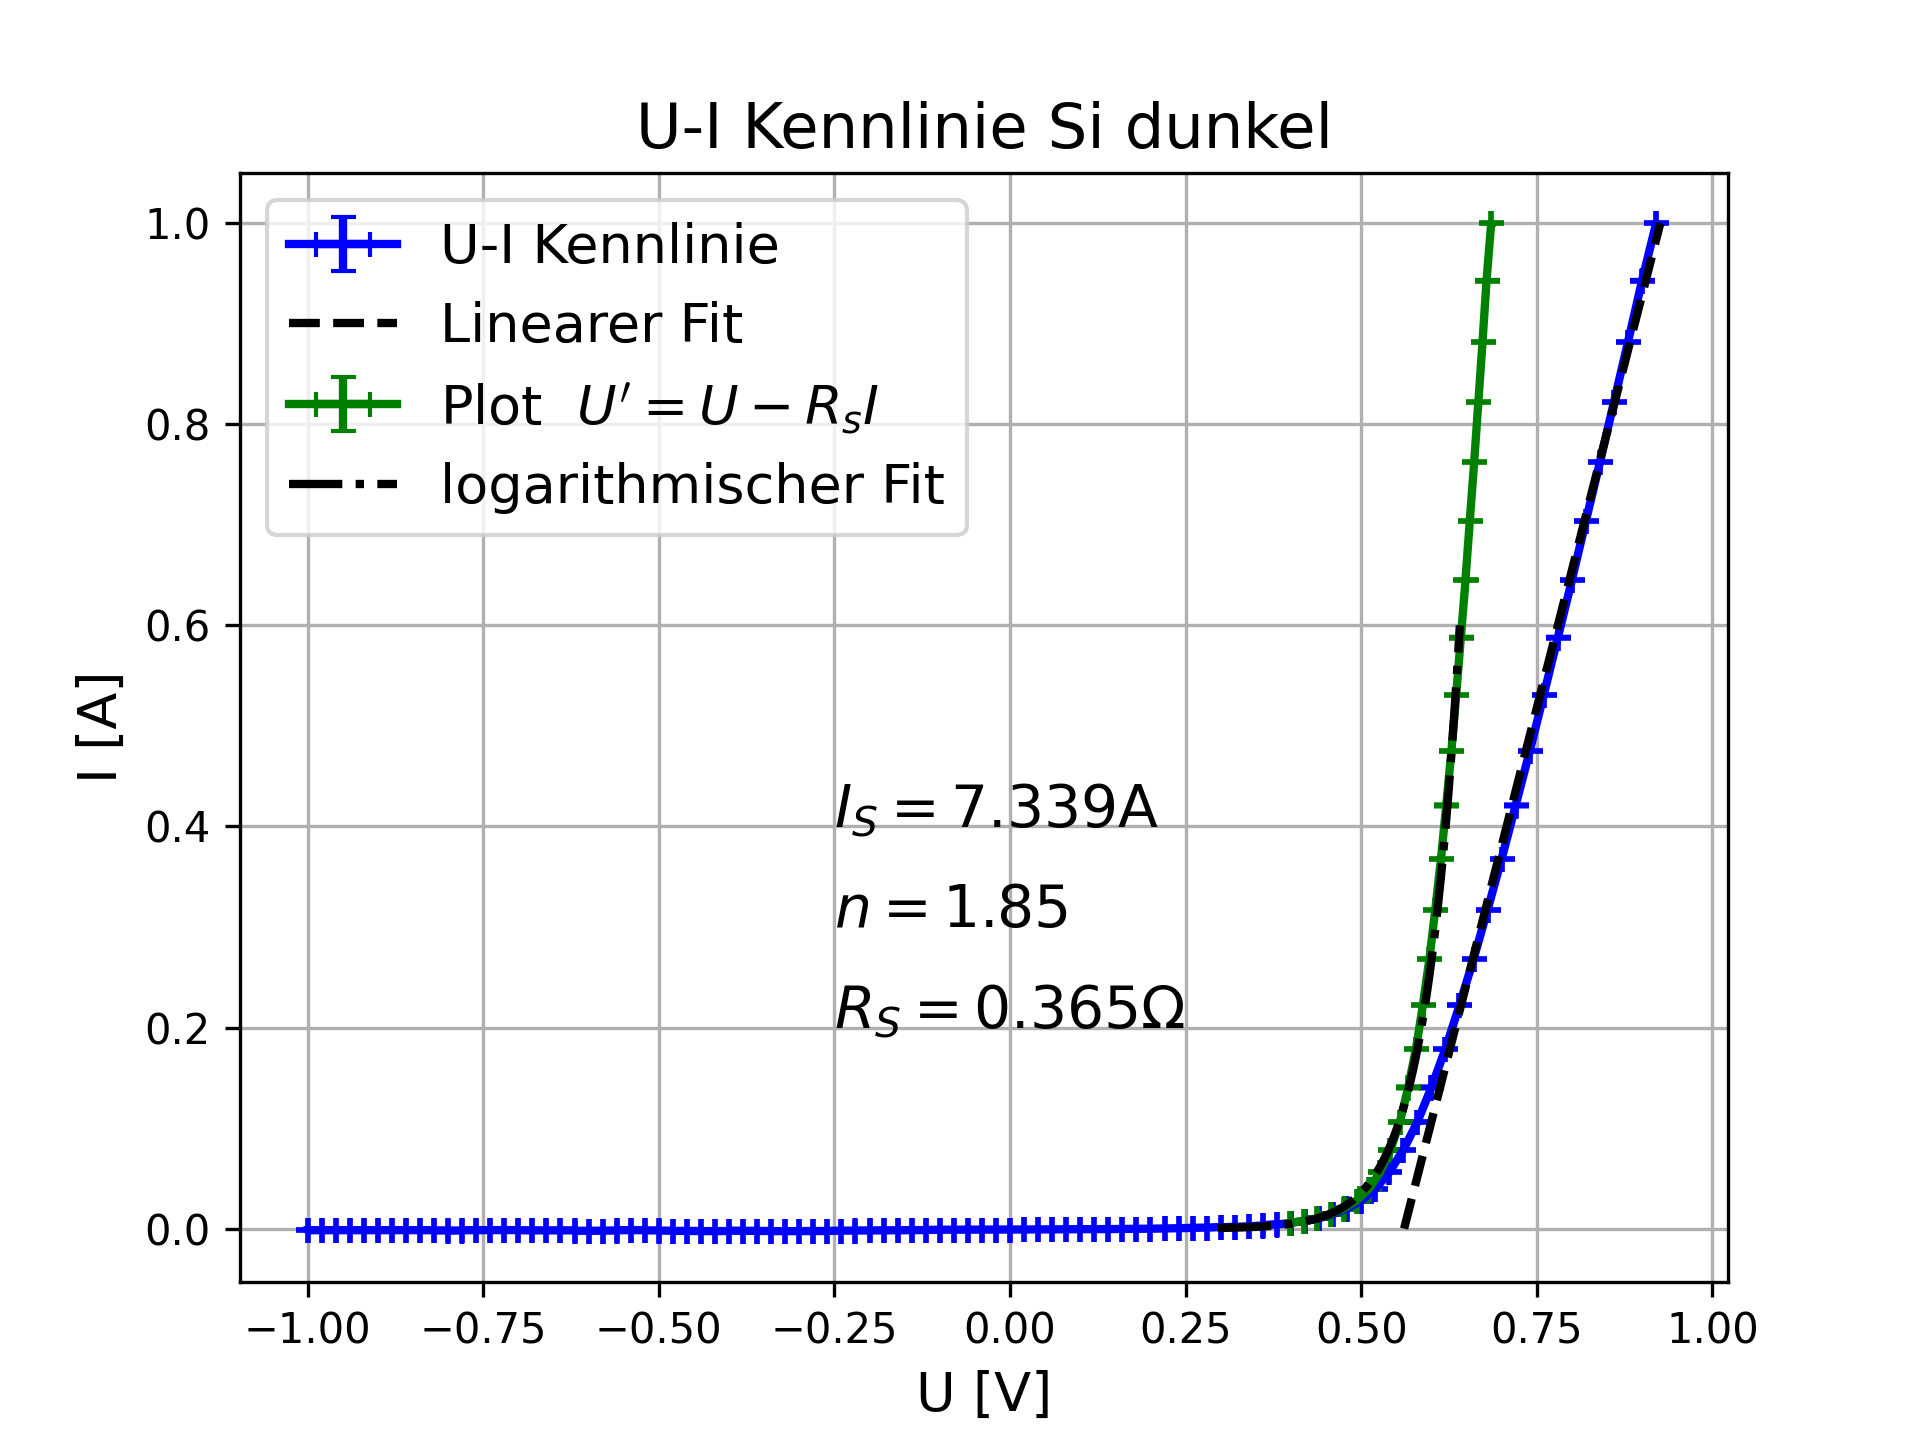
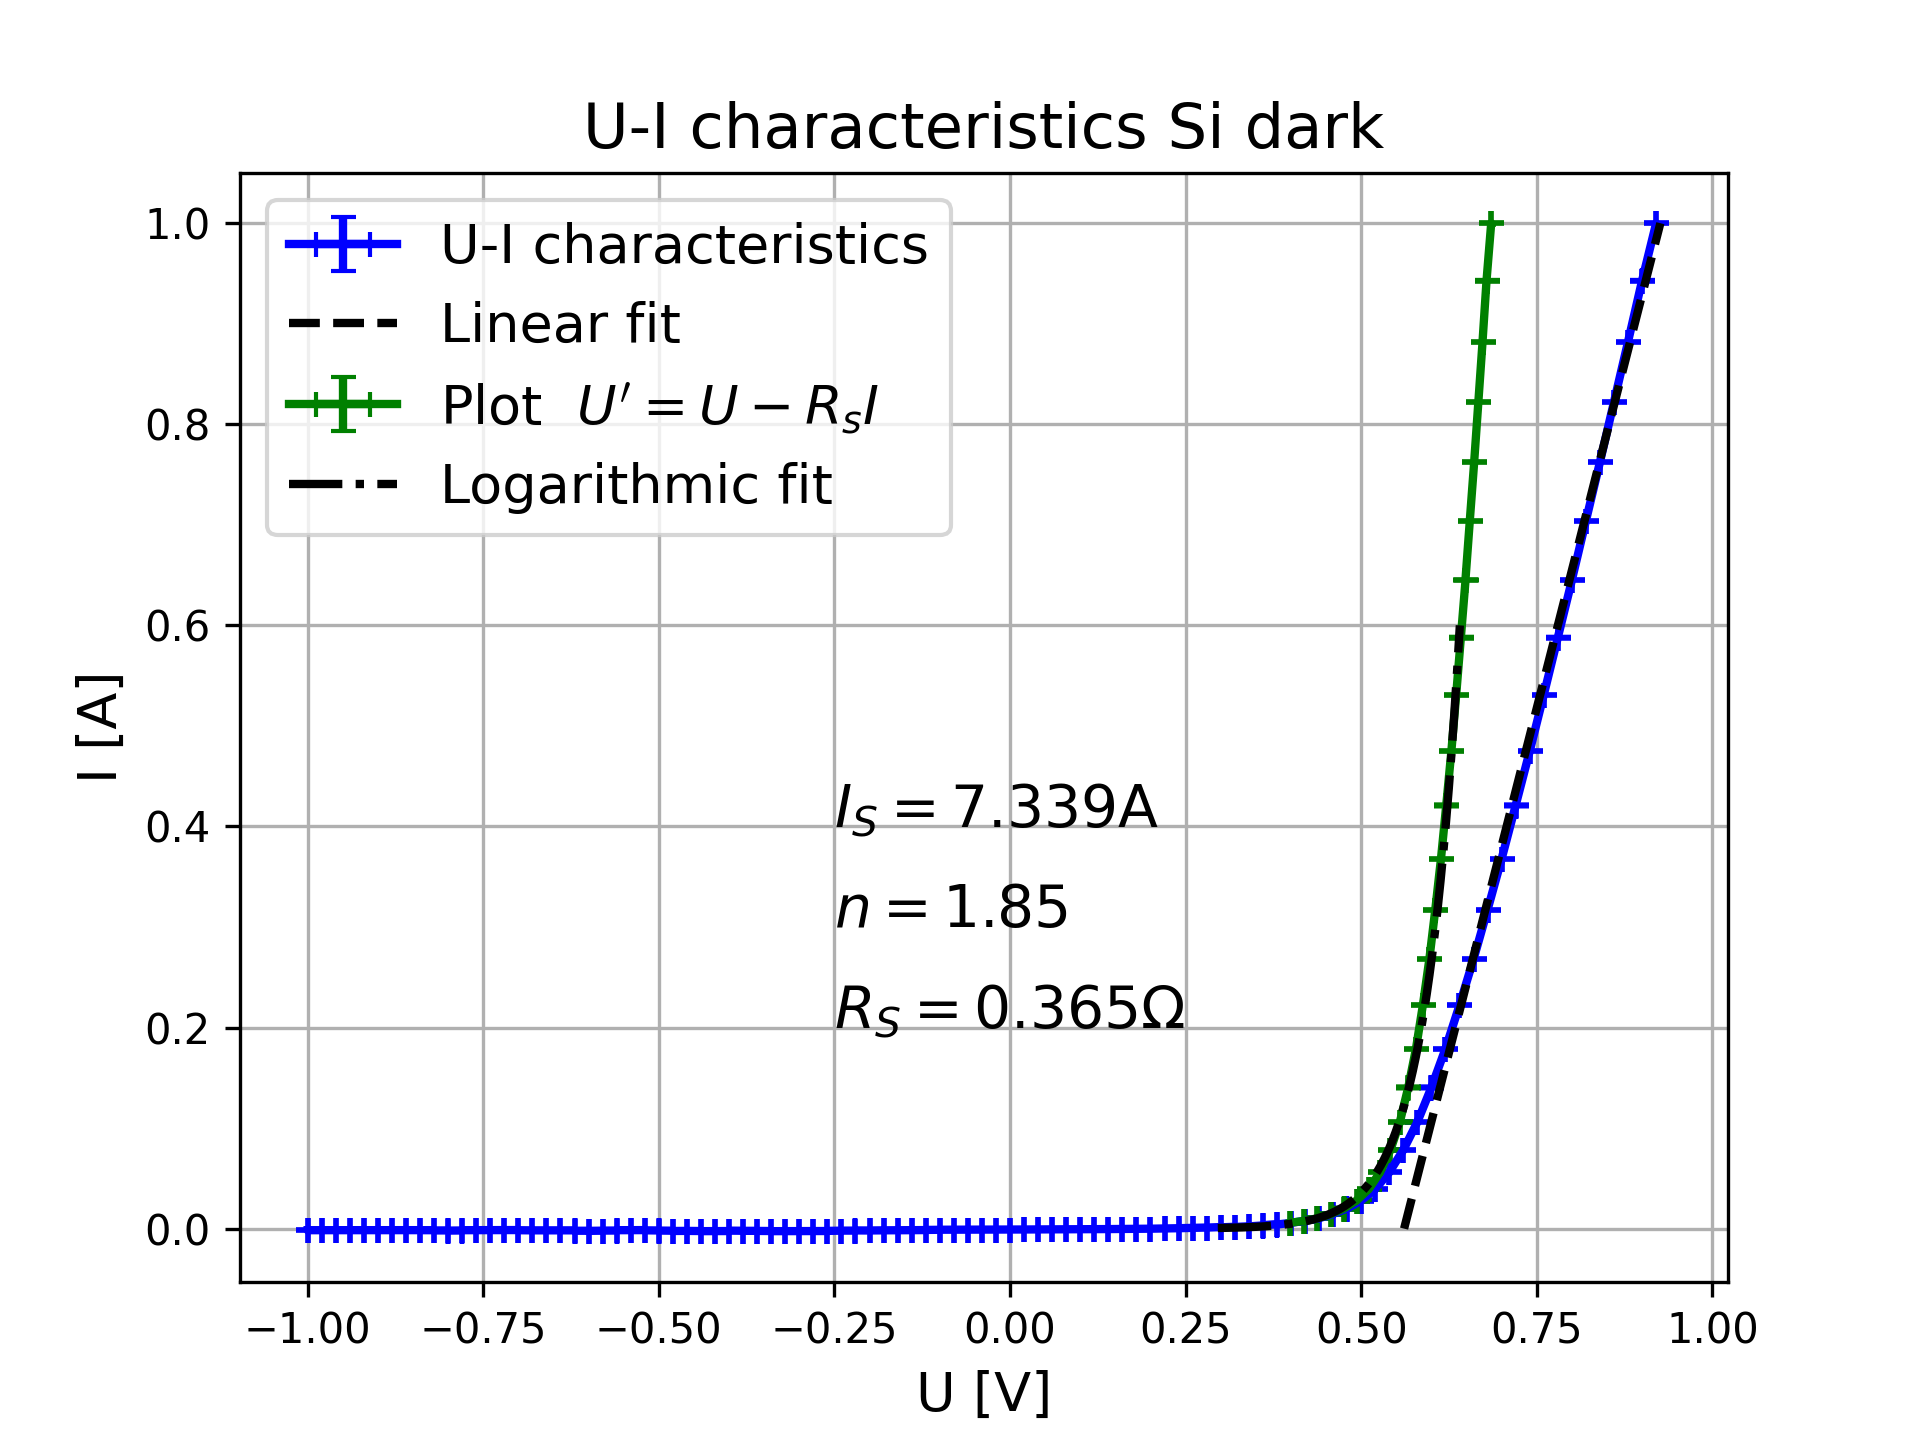
Das ist mein Code.

Changed region(s): [[0.3125, 0.0625, 0.7188, 0.125], [0.2188, 0.3125, 0.5, 0.375], [0.2812, 0.1562, 0.5, 0.25]]

diff --git a/Auswertung.py b/Auswertung.py
@@ -99,19 +99,19 @@ plt.errorbar(a_si_du["voltage / V"][700:970]-R*a_si_du["current / A"][700:970], 
 plt.errorbar(U(np.linspace(0, 0.6, 1000), params[0], params[1], params[2]), np.linspace(0, 0.6, 1000), \
   lw=2, fmt = "-.", c = "black")  #Fit Log
 
-plt.title('U-I Kennlinie Si dunkel', fontsize = 15)
+plt.title('U-I characteristics Si dark', fontsize = 15)
 plt.text( -0.25, 0.2, "$R_S = $" + str(round(params_lin[0], 3)) + "$\Omega$", fontsize = 14)   #R_s
 plt.text( -0.25, 0.3, "$n = $" + str(round(params[0], 3)), fontsize = 14)   #n
 plt.text( -0.25, 0.4, "$I_S = $" + str(round(params[1], 3)) + "A", fontsize = 14)   #I_s
 plt.xlabel('U [V]' , fontsize = 13)
 plt.ylabel('I [A]', fontsize = 13)
 plt.grid(True)
-plt.legend(['U-I Kennlinie', "Linearer Fit", "Plot  $U' = U - R_s I$", "logarithmischer Fit"], fontsize = 13)
+plt.legend(['U-I characteristics', "Linear fit", "Plot  $U' = U - R_s I$", "Logarithmic fit"], fontsize = 13)
 plt.savefig('Plots/Dunkel_Si.png', dpi=300)
 plt.clf()
 
 
-#Plot Kennlinien dunkel
+#Plot Characteristicsn dunkel
 Ao1 = 0.06
 Ao2 =  25
 Aa = 26
@@ -128,27 +128,27 @@ ax2.set_ylabel('I [$A/cm^2$]', fontsize = 13, color=color)  # we already handled
 ax2.tick_params(axis='y', labelcolor=color)
 
 ax1.errorbar(a_org_du["voltage / V"], a_org_du["current / A"]*1e3/Ao1, xerr = U_err, yerr = I_err,\
-            linewidth = 2, color = "blue", capsize=3, label = "Kennlinie organisch 1")
+            linewidth = 2, color = "blue", capsize=3, label = "Characteristics organic 1")
 
 ax1.errorbar(a_org2_du["voltage / V"], a_org2_du["current / A"]*1e5/Ao2, xerr = U_err, yerr = I_err,\
-            linewidth = 2, color = "green", capsize=3, label = "Kennlinie organisch 2 multipliziert mit 100")
+            linewidth = 2, color = "green", capsize=3, label = "Characteristics organic 2 x 100")
 
 ax2.errorbar(a_si_du["voltage / V"], a_si_du["current / A"]/Aa, xerr = U_err, yerr = I_err,\
             linewidth = 2, color = "red", capsize=3)
 
-plt.title('U-I Kennlinien dunkel', fontsize = 15)
+plt.title('U-I characteristics dark', fontsize = 15)
 
 fig.tight_layout()  # otherwise the right y-label is slightly clipped
 plt.subplots_adjust(top=0.85)
 
 plt.grid(True)
 ax1.legend(loc = 2)
-ax2.legend(["Kennlinie anorganisch"], loc = 4)
+ax2.legend(["Characteristics anorganic"], loc = 4)
 plt.savefig('Plots/Kennlinie_Dunkel.png', dpi=300)
 plt.clf()
 
 
-#Kennlinie hell
+#Characteristics hell
 fig, ax1 = plt.subplots()
 color = 'black'
 ax1.set_xlabel('U [V]' , fontsize = 13)
@@ -165,23 +165,23 @@ ax1.errorbar(a_org_11mV["voltage / V"], a_org_11mV["current / A"]*1e2/Ao1, xerr 
 ax2.errorbar(a_org2_11["voltage / V"], a_org2_11["current / A"]*1e2/Ao2, xerr = U_err, yerr = I_err,\
             linewidth = 2, color = "green", capsize=3)
 
-ax1.legend(['Kennlinie organisch 1'], loc = 2)
-ax2.legend(["Kennlinie organisch 2"], loc = 4)
+ax1.legend(['Characteristics organic 1'], loc = 2)
+ax2.legend(["Characteristics organic 2"], loc = 4)
 
 fig.tight_layout()  # otherwise the right y-label is slightly clipped
 plt.subplots_adjust(top=0.85)
 
-plt.title('U-I Kennlinien hell organisch', fontsize = 15)
+plt.title('U-I Characteristics organic illuminated', fontsize = 15)
 
 plt.xlabel('U [V]' , fontsize = 13)
 plt.ylabel('I [$mA/m^2$]', fontsize = 13)
 plt.grid(True)
-#plt.legend(['U-I Kennlinie', "Linearer Fit", "Plot  $U' = U - R_s I$", "logarithmischer Fit"], fontsize = 13)
+#plt.legend(['U-I Characteristics', "Linearer Fit", "Plot  $U' = U - R_s I$", "logarithmischer Fit"], fontsize = 13)
 plt.savefig('Plots/Kennlinie_Hell.png', dpi=300)
 plt.clf()
 
 
-#Si Kennlinie hell
+#Si Characteristics hell
 
 I2 = a_an_11mV["current / A"][780]
 I1 = a_an_11mV["current / A"][770]
@@ -213,7 +213,7 @@ plt.errorbar(U_MPP, I_MPP, fmt = "s", color = "black")
 
 plt.errorbar(np.linspace(0, 0.8, 1000), np.linspace(0, 0, 1000), color = "black", linewidth = "1")
 
-plt.title('U-I Kennlinie Si hell', fontsize = 15)
+plt.title('U-I characteristics Si illuminated', fontsize = 15)
 plt.text( 0.2, 0.35, "$U_{Oc} = $" + str(round(U_OC, 3)) + " V", fontsize = 14)   #U_OC
 plt.text( 0.2, 0.25, "$j_{Sc} = $" + str(round(j_sc*1e3, 3)) + r"$\frac{mA}{cm^2}$", fontsize = 14)   #j_sc
 plt.text( 0.2, 0.15, "$I_{MPP} = $" + str(round(I_MPP, 3)) + " A", fontsize = 14)   #I_s
@@ -224,7 +224,7 @@ plt.xlabel('U [V]' , fontsize = 13)
 plt.ylabel('I [A]', fontsize = 13)
 plt.xlim(xmin=0, xmax = 0.8)
 plt.grid(b = True, which = "major", axis = "y")
-plt.legend(['U-I Kennlinie', "MPP"], fontsize = 13)
+plt.legend(['U-I characteristics', "MPP"], fontsize = 13)
 plt.savefig('Plots/Hell_Si.png', dpi=300)
 plt.clf()
 
@@ -232,7 +232,7 @@ plt.clf()
 #_______B____________
 
 
-#Si Kennlinie hell
+#Si Characteristics hell
 I2_5 = b_5["current / A"][760]
 I1_5 = b_5["current / A"][759]
 U1_5 = b_5["voltage / V"][759]
@@ -265,7 +265,7 @@ plt.errorbar(b_20["voltage / V"][530:900], b_20["current / A"][530:900], xerr = 
 plt.errorbar(b_sonne["voltage / V"][530:900], b_sonne["current / A"][530:900], xerr = U_err, yerr = I_err,\
             linewidth = 2, capsize=3) #Sonne
 
-plt.title('U-I Kennlinie Si hell', fontsize = 15)
+plt.title('U-I characteristics Si illuminated', fontsize = 15)
 '''plt.text( 0.5, -0.2, "$U_{Oc,5mV} = $" + str(round(U_OC_5, 3)) + " V", fontsize = 12)   #U_OC
 plt.text( 0.5, -0.3, "$j_{Sc,5mV} = $" + str(round(j_sc_5*1e3, 3)) + r"$\frac{mA}{cm^2}$", fontsize = 12)   #j_sc
 plt.text( 0.5, -0.4, "$U_{Oc, 11mV} = $" + str(round(U_OC, 3)) + " V", fontsize = 12)   #U_OC
@@ -297,7 +297,7 @@ j_SC["i"] = [500/32, 1100/32, 2000/32, 100]
 params, params_cov = optimize.curve_fit(lin, j_SC["i"], j_SC["j_SC"])
 
 #Plot
-plt.title("Intensity Dependence of $j_{sc}$", fontsize = 18)
+plt.title("Intensity dependence of $j_{sc}$", fontsize = 18)
 
 plt.errorbar(np.linspace(15, 100, 1000), lin(np.linspace(15, 100, 1000), params[0], params[1], params[2]), color = "black")
 plt.errorbar(j_SC["i"], j_SC["j_SC"], fmt = "d", linewidth = 2, capsize=3, markersize='14', color = "blue")
@@ -315,20 +315,191 @@ plt.savefig('Plots/j_Intensität.png', dpi=300)
 plt.clf()
 
 # U_Oc über Intensität
-plt.title("Intensity Dependence of $U_{OC}$", fontsize = 18)
+plt.title("Intensity dependence of $U_{OC}$", fontsize = 18)
 
-plt.errorbar(500/32, U_OC_5, fmt = "s", markersize='16')
-plt.errorbar(1100/32, U_OC, fmt = "d", markersize='16')
-plt.errorbar(2000/32, U_OC_20, fmt = "x", markersize='16')
-plt.errorbar(3200/32, U_OC_32, fmt = ".", markersize='16')
+plt.errorbar(500/32, U_OC_5, fmt = "x", markersize='13', c = "blue")
+plt.errorbar(1100/32, U_OC, fmt = "x", markersize='13', c = "blue")
+plt.errorbar(2000/32, U_OC_20, fmt = "x", markersize='13', c = "blue")
+plt.errorbar(3200/32, U_OC_32, fmt = "x", markersize='13', c = "blue")
 
 plt.xlabel(r'$I_0 [\frac{mW}{cm^2}]$' , fontsize = 14)
 plt.ylabel(r'$U_{OC} [V]$', fontsize = 14)
-
+plt.grid(True)
 plt.savefig('Plots/U_Intensität.png', dpi=300)
 plt.clf()
 
 #_______________C_______________
+#Si Characteristics hell
+#1
+I2_1 = c1_11mV["current / A"][350]
+I1_1 = c1_11mV["current / A"][349]
+U1_1 = c1_11mV["voltage / V"][349]
+U2_1 = c1_11mV["voltage / V"][350]
+
+
+
+U_OC_1 = U1_1 + (U2_1-U1_1) * 0.5           #lineare Interpolation U_OC
+j_sc_1 = c1_11mV["current / A"][150]/Aa
+P_1 = c1_11mV["voltage / V"]*(-c1_11mV["current / A"])
+
+#Finde I_MPP
+max_1 = 0
+j_1 = 0
+for i in range(150, 349):
+    if P_1[i] > max_1:
+        max_1 = P_1[i]
+        j_1 = i
+I_MPP_1 = c1_11mV["current / A"][j_1]
+U_MPP_1 = c1_11mV["voltage / V"][j_1]
+FF_1 = -P_1[j_1]/U_OC_1*j_sc_1*Aa*6
+p_ein = 100*11/33.2
+Wirkungsgrad_1 = (P_1[j_1]*1e3/(Aa*6))/p_ein
+
+#2
+I2_2 = r68_s2["current / A"][350]
+I1_2 = r68_s2["current / A"][349]
+U1_2 = r68_s2["voltage / V"][349]
+U2_2 = r68_s2["voltage / V"][350]
+
+U_OC_2 = U1_2 + (U2_2-U1_2) * 0.5           #lineare Interpolation U_OC
+j_sc_2 = r68_s2["current / A"][50]/Aa*6
+P_2 = r68_s2["voltage / V"]*(-r68_s2["current / A"])
+
+#Finde I_MPP
+max_2 = 0
+j_2 = 0
+for i in range(150, 349):
+    if P_2[i] > max_2:
+        max_2 = P_2[i]
+        j_2 = i
+I_MPP_2 = r68_s2["current / A"][j_2]
+U_MPP_2 = r68_s2["voltage / V"][j_2]
+FF_2 = -P_2[j_2]/U_OC_2*j_sc_2*Aa*6
+p_ein = 100*11/33.2
+Wirkungsgrad_2 = (P_2[j_2]*1e3/(Aa*6))/p_ein
+
+#3
+I2_3 = r68_s3["current / A"][345]
+I1_3 = r68_s3["current / A"][344]
+U1_3 = r68_s3["voltage / V"][344]
+U2_3 = r68_s3["voltage / V"][345]
+
+U_OC_3 = U1_3 + (U2_3-U1_3) * 0.5           #lineare Interpolation U_OC
+j_sc_3 = r68_s3["current / A"][50]/Aa*6
+P_3 = r68_s3["voltage / V"]*(-r68_s3["current / A"])
+
+#Finde I_MPP
+max_3 = 0
+j_3 = 0
+for i in range(150, 344):
+    if P_3[i] > max_3:
+        max_3 = P_3[i]
+        j_3 = i
+I_MPP_3 = r68_s3["current / A"][j_3]
+U_MPP_3 = r68_s3["voltage / V"][j_3]
+FF_3 = -P_3[j_3]/U_OC_3*j_sc_3*Aa*6
+p_ein = 100*11/33.2
+Wirkungsgrad_3 = (P_3[j_3]*1e3/(Aa*6))/p_ein
+
+#4
+I2_4 = r73_s2["current / A"][340]
+I1_4 = r73_s2["current / A"][339]
+U1_4 = r73_s2["voltage / V"][339]
+U2_4 = r73_s2["voltage / V"][340]
+
+U_OC_4 = U1_4 + (U2_4-U1_4) * 0.5           #lineare Interpolation U_OC
+j_sc_4 = r73_s2["current / A"][150]/Aa*6
+P_4 = r73_s2["voltage / V"]*(-r73_s2["current / A"])
+
+#Finde I_MPP
+max_4 = 0
+j_4 = 0
+for i in range(150, 339):
+    if P_4[i] > max_4:
+        max_4 = P_4[i]
+        j_4 = i
+I_MPP_4 = r73_s2["current / A"][j_4]
+U_MPP_4 = r73_s2["voltage / V"][j_4]
+FF_4 = -P_4[j_4]/U_OC_4*j_sc_4*Aa*6
+p_ein = 100*11/33.2
+Wirkungsgrad_4 = (P_4[j_4]*1e3/(Aa*6))/p_ein
+
+#Verbraucher
+I2_Verb = c4_11verb["current / A"][219]
+I1_Verb = c4_11verb["current / A"][218]
+U1_Verb = c4_11verb["voltage / V"][218]
+U2_Verb = c4_11verb["voltage / V"][219]
+
+U_OC_Verb = U1_Verb + (U2_Verb-U1_Verb) * 0.5           #lineare Interpolation U_OC
+j_sc_Verb = c4_11verb["current / A"][50]/Aa*12
+P_Verb = c4_11verb["voltage / V"]*(-c4_11verb["current / A"])
+
+#Finde I_MPP
+max_Verb = 0
+j_Verb = 0
+for i in range(100, 218):
+    if P_Verb[i] > max_Verb:
+        max_Verb = P_Verb[i]
+        j_Verb = i
+I_MPP_Verb = c4_11verb["current / A"][j_Verb]
+U_MPP_Verb = c4_11verb["voltage / V"][j_Verb]
+FF_Verb = -P_Verb[j_Verb]/U_OC_Verb*j_sc_Verb*Aa*12
+p_ein = 100*11/33.2
+Wirkungsgrad_Verb = (P_Verb[j_Verb]*1e3/(Aa*12))/p_ein
+
+print("\n\n\nFolgende Werte erhalten wir für die Kurzschlussströme:\n", "j_1: ", j_sc_1, "\n j_2: ", j_sc_2, "\n j_3: ", j_sc_3, \
+"\n j_4: ", j_sc_4, "\nj_Verb: ", j_sc_Verb)
+print("\n\nFolgende Werte erhalten wir für die Leerlaufspannungen:\n", "U_1: ", U_OC_1, "\n U_2: ", U_OC_2, "\n U_3: ", U_OC_3, \
+"\n U_4: ", U_OC_4, "\nU_Verb: ", U_OC_Verb)
+print("\n\nFolgende Werte erhalten wir für die Füllfaktoren:\n", "FF_1: ", FF_1, "\n FF_2: ", j_sc_2, "\n FF_3: ", j_sc_3, \
+"\n FF_4: ", j_sc_4, "\nFF_Verb: ", j_sc_Verb)
+print("\n\nFolgende Werte erhalten wir für die Wirkungsgrade:\n", "Wirkungsgrad_1: ", Wirkungsgrad_1, "\n Wirkungsgrad_2: ", Wirkungsgrad_2, "\n Wirkungsgrad_3: ", Wirkungsgrad_3, \
+"\n Wirkungsgrad_4: ", Wirkungsgrad_4, "\nWirkungsgrad_Verb: ", Wirkungsgrad_Verb, "\n\n\n")
+
+#Plot
+plt.errorbar(c1_11mV["voltage / V"], c1_11mV["current / A"], xerr = U_err, yerr = I_err,\
+            linewidth = 1, fmt = ".")
+plt.errorbar(r68_s2["voltage / V"], r68_s2["current / A"], xerr = U_err, yerr = I_err,\
+            linewidth = 1, fmt = ".")
+plt.errorbar(r68_s3["voltage / V"], r68_s3["current / A"], xerr = U_err, yerr = I_err,\
+            linewidth = 1, fmt = ".")
+plt.errorbar(r73_s2["voltage / V"], r73_s2["current / A"], xerr = U_err, yerr = I_err,\
+            linewidth = 1, fmt = ".")
+
+plt.errorbar(c4_11verb["voltage / V"][50:219], c4_11verb["current / A"][50:219], xerr = U_err, yerr = I_err,\
+            linewidth = 1, fmt = ".")
+
+plt.title('U-I characteristics for different wirings', fontsize = 15)
+plt.xlabel('U [V]' , fontsize = 13)
+plt.ylabel('I [A]', fontsize = 13)
+#plt.xlim(xmin=0, xmax = 0.8)
+plt.grid(b = True, which = "major", axis = "y")
+plt.legend(['Module', "$R_{ser} = 68 \Omega , R_{par} = 2.4 \Omega$", "$R_{ser} = 68 \Omega , R_{par} = 3.6 \Omega$",\
+"$R_{ser} = 73 \Omega , R_{par} = 2.6 \Omega$", "Ventilator"], fontsize = 13)
+plt.savefig('Plots/Verschaltung.png', dpi=300)
+plt.clf()
+
+
+#Verschattung
+plt.errorbar(c1_11mV["voltage / V"], c1_11mV["current / A"], xerr = U_err, yerr = I_err,\
+            linewidth = 1, fmt = ".")
+plt.errorbar(c3_v1_11["voltage / V"], c3_v1_11["current / A"], xerr = U_err, yerr = I_err,\
+            linewidth = 1, fmt = ".")
+plt.errorbar(c3_v2_11["voltage / V"], c3_v2_11["current / A"], xerr = U_err, yerr = I_err,\
+            linewidth = 1, fmt = ".")
+plt.errorbar(c3_v3_11["voltage / V"], c3_v3_11["current / A"], xerr = U_err, yerr = I_err,\
+            linewidth = 1, fmt = ".")
+
+
+plt.title('U-I characteristics for different shadings', fontsize = 15)
+plt.xlabel('U [V]' , fontsize = 13)
+plt.ylabel('I [A]', fontsize = 13)
+#plt.xlim(xmin=0, xmax = 0.8)
+plt.grid(b = True, which = "major", axis = "y")
+plt.legend(['shading 0', "shading 1/6","shading 1/3", "shading 2/3"], fontsize = 13)
+plt.savefig('Plots/Verschattung.png', dpi=300)
+plt.clf()
+
 
 #_______________D________________
 T_err = 2
@@ -336,7 +507,7 @@ U_L_err = 0
 
 params, params_cov = optimize.curve_fit(lin, Leerlaufspannung["T[C]"][0:5], Leerlaufspannung["U_L[mV]"][0:5])
 
-plt.title("Temperature Dependence of $U_{OC}$", fontsize = 18)
+plt.title("Temperature dependence of $U_{OC}$", fontsize = 18)
 
 plt.errorbar(np.linspace(27, 55, 1000), lin(np.linspace(27, 55, 1000), params[0], params[1], params[2]), color = "black")
 plt.errorbar(Leerlaufspannung["T[C]"], Leerlaufspannung["U_L[mV]"], xerr=T_err, yerr=U_L_err,\
@@ -384,10 +555,10 @@ ax2.legend(["data organic", "fit cos"], loc = 1)
 fig.tight_layout()  # otherwise the right y-label is slightly clipped
 plt.subplots_adjust(top=0.85)
 
-plt.title('Angel Dependence of $I_{sc}$', fontsize = 15)
+plt.title('Angle dependence of $I_{sc}$', fontsize = 15)
 
 
 plt.grid(True)
-#plt.legend(['U-I Kennlinie', "Linearer Fit", "Plot  $U' = U - R_s I$", "logarithmischer Fit"], fontsize = 13)
+#plt.legend(['U-I Characteristics', "Linearer Fit", "Plot  $U' = U - R_s I$", "logarithmischer Fit"], fontsize = 13)
 plt.savefig('Plots/Kippung.png', dpi=300)
 plt.clf()
